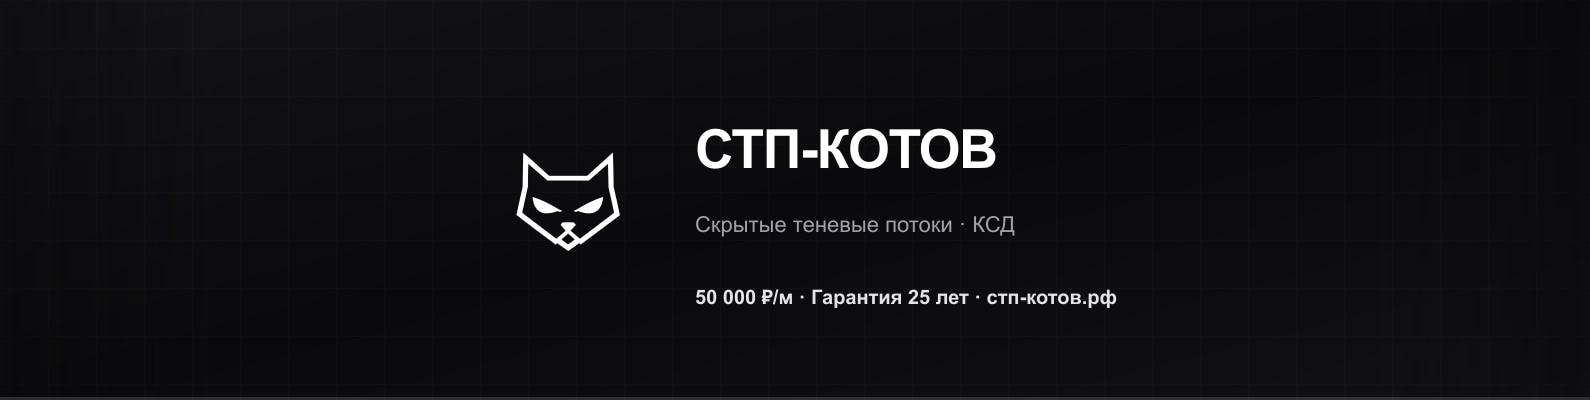
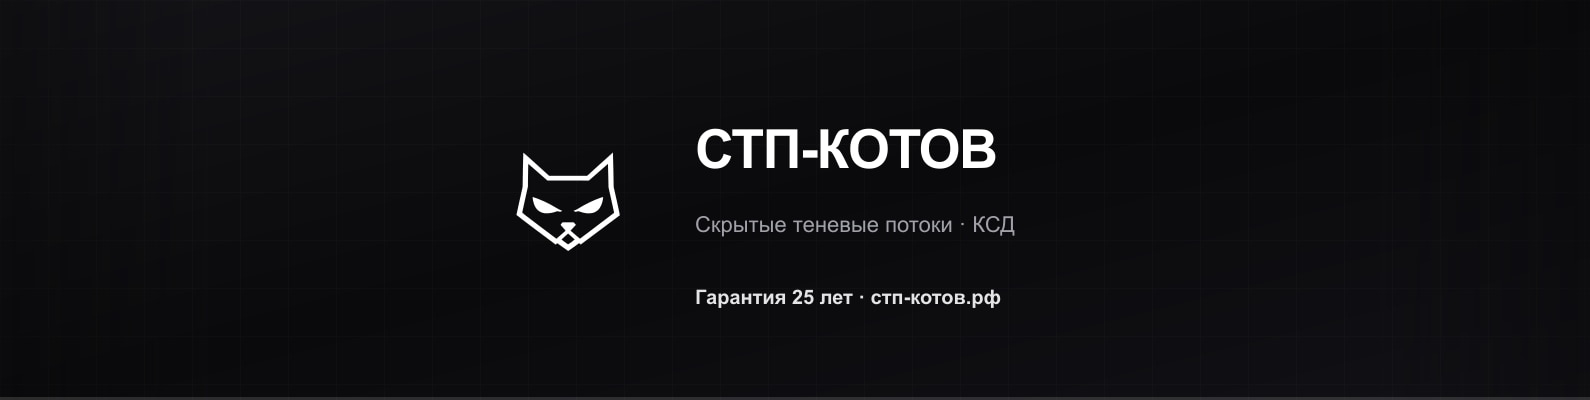
Сжать cookie по центру, двухколоночные разделы в футере, убрать цену из OG.

Changed region(s): [[0.4314, 0.72, 0.7088, 0.78]]

diff --git a/components/CookieBanner.tsx b/components/CookieBanner.tsx
@@ -48,59 +48,45 @@ export default function CookieBanner() {
 
   return (
     <div
-      className="ksd-cookie-banner fixed bottom-6 left-1/2 -translate-x-1/2 z-[200] w-[calc(100%-2rem)] max-w-lg"
+      className="ksd-cookie-banner fixed inset-0 z-[200] flex items-center justify-center p-4 pointer-events-none"
       role="dialog"
       aria-label="Уведомление о файлах cookie"
     >
       <div
-        className="ksd-cookie-panel flex flex-col gap-4 px-5 py-4 rounded-2xl border backdrop-blur-md"
+        className="ksd-cookie-panel pointer-events-auto w-full max-w-md flex items-center gap-3 px-3.5 py-2.5 rounded-xl border backdrop-blur-md"
         style={{
-          background: "rgba(24,24,27,0.92)",
+          background: "rgba(24,24,27,0.94)",
           borderColor: "rgba(63,63,70,0.8)",
           boxShadow:
-            "0 0 0 1px rgba(255,255,255,0.04) inset, 0 8px 32px rgba(0,0,0,0.5)",
+            "0 0 0 1px rgba(255,255,255,0.04) inset, 0 12px 40px rgba(0,0,0,0.55)",
         }}
       >
-        <div className="flex items-start gap-3">
-          <div className="shrink-0 w-8 h-8 rounded-xl bg-zinc-800 border border-zinc-700/60 flex items-center justify-center">
-            <Cookie className="w-4 h-4 text-zinc-400" strokeWidth={1.75} />
-          </div>
-          <p className="ksd-cookie-text flex-1 text-zinc-400 text-[13px] leading-relaxed">
-            Мы используем необходимые cookie для работы сайта. Аналитика
-            «Яндекс.Метрика» (включая запись сессий — вебвизор) включается{" "}
-            <span className="text-zinc-300">только после вашего согласия</span>.
-            Подробнее — в{" "}
-            <Link
-              href={PATHS.cookies}
-              className="ksd-cookie-link text-zinc-300 underline underline-offset-2 decoration-zinc-600 hover:text-white hover:decoration-zinc-400 transition-colors"
-            >
-              политике cookie
-            </Link>
-            {" "}и{" "}
-            <Link
-              href={PATHS.privacy}
-              className="ksd-cookie-link text-zinc-300 underline underline-offset-2 decoration-zinc-600 hover:text-white hover:decoration-zinc-400 transition-colors"
-            >
-              политике конфиденциальности
-            </Link>
-            .
-          </p>
+        <div className="shrink-0 w-7 h-7 rounded-lg bg-zinc-800 border border-zinc-700/60 flex items-center justify-center">
+          <Cookie className="w-3.5 h-3.5 text-zinc-400" strokeWidth={1.75} />
         </div>
-
-        <div className="flex flex-col sm:flex-row gap-2 sm:justify-end">
+        <p className="ksd-cookie-text flex-1 min-w-0 text-zinc-400 text-[12px] leading-snug">
+          Cookie и Метрика — только с согласия.{" "}
+          <Link
+            href={PATHS.cookies}
+            className="ksd-cookie-link text-zinc-300 underline underline-offset-2 decoration-zinc-600 hover:text-white transition-colors"
+          >
+            Политика
+          </Link>
+        </p>
+        <div className="flex shrink-0 gap-1.5">
           <button
             type="button"
             onClick={reject}
-            className="shrink-0 px-5 py-2.5 rounded-xl text-[13px] font-medium border border-zinc-700 text-zinc-400 hover:text-zinc-200 hover:border-zinc-500 active:scale-95 transition-all duration-150"
+            className="px-3 py-1.5 rounded-lg text-[12px] font-medium border border-zinc-700 text-zinc-400 hover:text-zinc-200 hover:border-zinc-500 active:scale-95 transition-all duration-150"
           >
-            Отклонить
+            Нет
           </button>
           <button
             type="button"
             onClick={accept}
-            className="shrink-0 px-5 py-2.5 bg-white text-zinc-950 rounded-xl text-[13px] font-semibold hover:bg-zinc-100 active:scale-95 transition-all duration-150"
+            className="px-3.5 py-1.5 bg-white text-zinc-950 rounded-lg text-[12px] font-semibold hover:bg-zinc-100 active:scale-95 transition-all duration-150"
           >
-            Принять
+            ОК
           </button>
         </div>
       </div>

diff --git a/components/Footer.tsx b/components/Footer.tsx
@@ -31,9 +31,9 @@ export default function Footer() {
           whileInView={{ opacity: 1, y: 0 }}
           viewport={{ once: true }}
           transition={spring}
-          className="grid grid-cols-1 md:grid-cols-2 lg:grid-cols-4 gap-12 pb-16 border-b border-zinc-800"
+          className="grid grid-cols-1 md:grid-cols-2 lg:grid-cols-[1.35fr_1.25fr_0.9fr] gap-10 lg:gap-12 pb-14 border-b border-zinc-800"
         >
-          <div className="lg:col-span-2">
+          <div>
             <Link
               href="/"
               className="inline-flex items-center mb-4 group max-w-[14rem]"
@@ -72,7 +72,7 @@ export default function Footer() {
             <p className="text-white text-xs font-medium tracking-widest uppercase mb-5">
               Разделы
             </p>
-            <ul className="space-y-3 text-[15px]">
+            <ul className="grid grid-cols-2 gap-x-5 gap-y-2.5 text-[14px]">
               {MAIN_NAV.map(({ href, label }) => (
                 <li key={href + label}>
                   {href === PATHS.installation ? (

diff --git a/app/globals.css b/app/globals.css
@@ -769,16 +769,29 @@ html.light [role="button"]:focus-visible {
 @keyframes ksd-cookie-banner-in {
   from {
     opacity: 0;
-    transform: translate(-50%, 1.5rem);
   }
   to {
     opacity: 1;
-    transform: translate(-50%, 0);
+  }
+}
+
+@keyframes ksd-cookie-panel-in {
+  from {
+    opacity: 0;
+    transform: translateY(10px) scale(0.98);
+  }
+  to {
+    opacity: 1;
+    transform: translateY(0) scale(1);
   }
 }
 
 .ksd-cookie-banner {
-  animation: ksd-cookie-banner-in 0.38s cubic-bezier(0.22, 1, 0.36, 1) both;
+  animation: ksd-cookie-banner-in 0.28s ease-out both;
+}
+
+.ksd-cookie-banner .ksd-cookie-panel {
+  animation: ksd-cookie-panel-in 0.38s cubic-bezier(0.22, 1, 0.36, 1) both;
 }
 
 /* ?? Payment ticker (??????? ?????? ??? ??????-??????) ?? */
